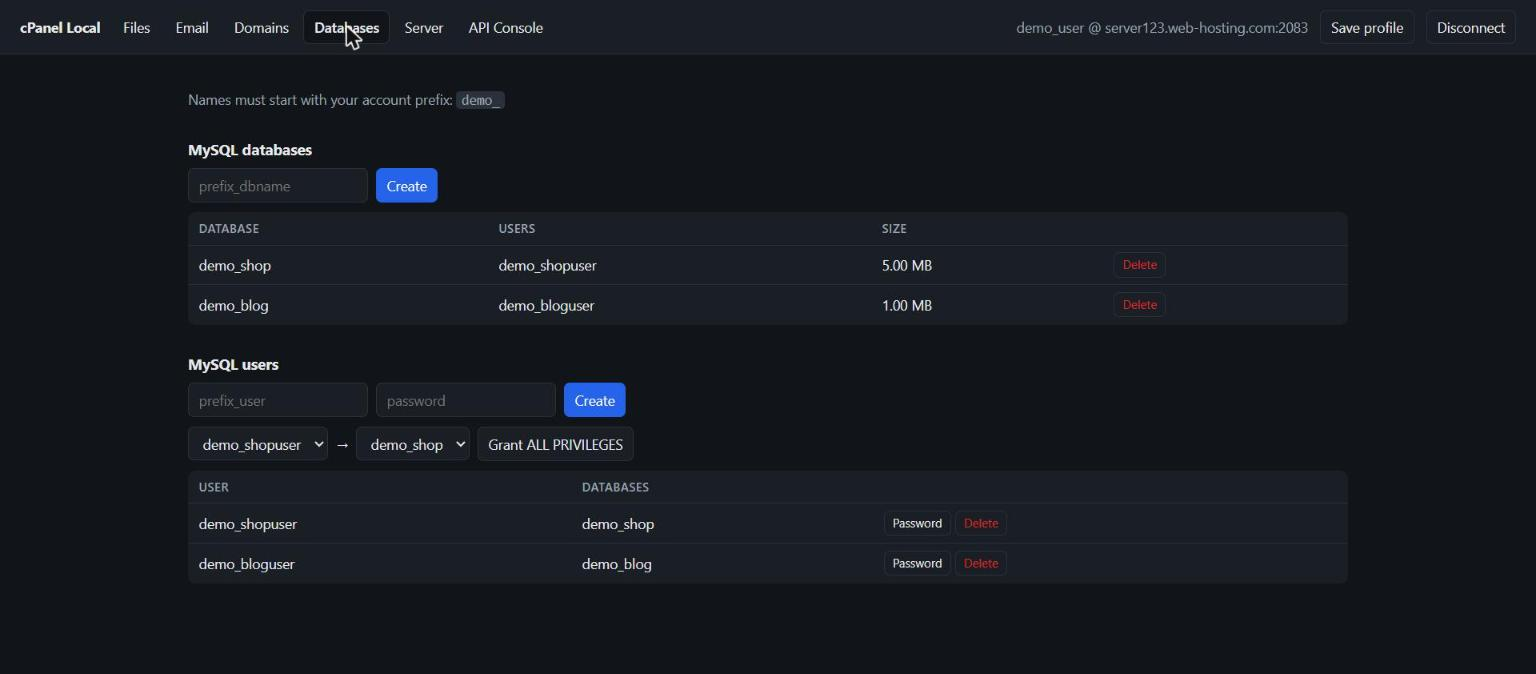
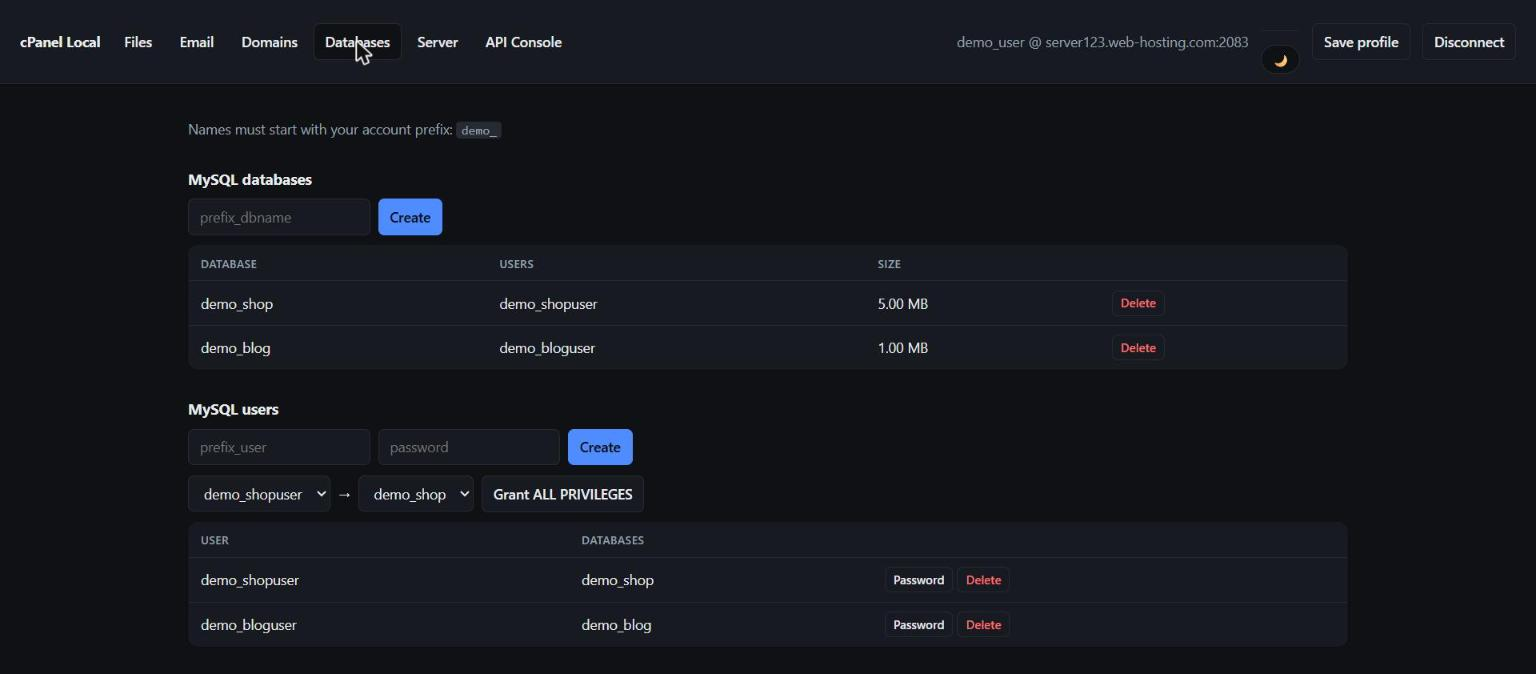
Add selectable appearance themes and refresh screenshots
Adds a Light/Dark/Midnight/System theme picker (dropdown using the
existing <details> disclosure pattern, CSP-safe) plus general UI
polish: card shadows, focus rings, hover states, and smoother
transitions. Screenshots regenerated to reflect the new UI.

diff --git a/public/style.css b/public/style.css
@@ -1,32 +1,76 @@
 :root {
-  --bg: #f6f7f9; --card: #fff; --text: #1d2330; --muted: #6b7280; --line: #e5e7eb;
-  --accent: #2563eb; --danger: #dc2626; --radius: 8px;
+  --radius: 10px;
+  --radius-sm: 6px;
+  /* Light is the default paint before app.js resolves the saved/system preference. */
+  --bg: #f4f6f9; --bg-elevated: #fff; --card: #fff; --text: #1a2030; --muted: #64748b;
+  --line: #e4e7ec; --accent: #2563eb; --accent-hover: #1d4ed8; --accent-contrast: #fff;
+  --danger: #dc2626; --danger-hover: #b91c1c; --ok: #16a34a;
+  --shadow: 0 1px 2px rgba(16, 24, 40, .04), 0 8px 24px rgba(16, 24, 40, .06);
+  --shadow-sm: 0 1px 2px rgba(16, 24, 40, .06);
 }
-@media (prefers-color-scheme: dark) {
-  :root { --bg: #111418; --card: #1a1f26; --text: #e6e8eb; --muted: #9aa3ae; --line: #2a313a; }
+
+html[data-theme="light"] {
+  --bg: #f4f6f9; --bg-elevated: #fff; --card: #fff; --text: #1a2030; --muted: #64748b;
+  --line: #e4e7ec; --accent: #2563eb; --accent-hover: #1d4ed8; --accent-contrast: #fff;
+  --danger: #dc2626; --danger-hover: #b91c1c; --ok: #16a34a;
+  --shadow: 0 1px 2px rgba(16, 24, 40, .04), 0 8px 24px rgba(16, 24, 40, .06);
+  --shadow-sm: 0 1px 2px rgba(16, 24, 40, .06);
 }
+
+html[data-theme="dark"] {
+  --bg: #0f1115; --bg-elevated: #171b21; --card: #171b21; --text: #e8eaed; --muted: #97a1ad;
+  --line: #262b33; --accent: #4f8cff; --accent-hover: #6ea0ff; --accent-contrast: #0b0f14;
+  --danger: #f87171; --danger-hover: #fca5a5; --ok: #4ade80;
+  --shadow: 0 1px 2px rgba(0, 0, 0, .3), 0 12px 28px rgba(0, 0, 0, .35);
+  --shadow-sm: 0 1px 2px rgba(0, 0, 0, .3);
+}
+
+html[data-theme="midnight"] {
+  --bg: #0a0a12; --bg-elevated: #14141f; --card: #14141f; --text: #ecebf9; --muted: #8d89ad;
+  --line: #24233a; --accent: #8b6ff0; --accent-hover: #a287f5; --accent-contrast: #0a0a12;
+  --danger: #ff7a90; --danger-hover: #ff97a8; --ok: #5eead4;
+  --shadow: 0 1px 2px rgba(0, 0, 0, .35), 0 12px 32px rgba(76, 29, 149, .18);
+  --shadow-sm: 0 1px 2px rgba(0, 0, 0, .35);
+}
+
 * { box-sizing: border-box; }
-body { margin: 0; font: 14px/1.45 system-ui, -apple-system, Segoe UI, Roboto, sans-serif; background: var(--bg); color: var(--text); }
+body {
+  margin: 0; font: 14px/1.5 system-ui, -apple-system, Segoe UI, Roboto, sans-serif;
+  background: var(--bg); color: var(--text);
+  transition: background-color .15s ease, color .15s ease;
+}
 .hidden { display: none !important; }
 .muted { color: var(--muted); }
-h1 { margin: 0 0 4px; font-size: 22px; }
+h1 { margin: 0 0 4px; font-size: 22px; letter-spacing: -.01em; }
 h2 { font-size: 15px; margin: 28px 0 8px; }
-code { background: var(--line); padding: 1px 5px; border-radius: 4px; }
+code { background: var(--line); padding: 1px 5px; border-radius: 4px; font-size: .92em; }
+
+a { color: var(--accent); }
 
 input, select, textarea, button, .btn {
-  font: inherit; color: inherit; background: var(--card);
-  border: 1px solid var(--line); border-radius: 6px; padding: 6px 10px;
+  font: inherit; color: inherit; background: var(--bg-elevated);
+  border: 1px solid var(--line); border-radius: var(--radius-sm); padding: 7px 11px;
+  transition: background-color .15s ease, border-color .15s ease, color .15s ease, box-shadow .15s ease;
 }
 textarea { width: 100%; font-family: ui-monospace, Menlo, Consolas, monospace; }
-button, .btn { cursor: pointer; white-space: nowrap; }
+input:hover, select:hover, textarea:hover { border-color: color-mix(in srgb, var(--line) 40%, var(--muted)); }
+input:focus-visible, select:focus-visible, textarea:focus-visible,
+button:focus-visible, .btn:focus-visible {
+  outline: none; border-color: var(--accent); box-shadow: 0 0 0 3px color-mix(in srgb, var(--accent) 25%, transparent);
+}
+button, .btn { cursor: pointer; white-space: nowrap; font-weight: 500; }
 button:hover, .btn:hover { border-color: var(--accent); }
-button.primary { background: var(--accent); border-color: var(--accent); color: #fff; }
+button.primary { background: var(--accent); border-color: var(--accent); color: var(--accent-contrast); }
+button.primary:hover { background: var(--accent-hover); border-color: var(--accent-hover); }
 button.danger { color: var(--danger); }
-button.danger:hover { border-color: var(--danger); }
+button.danger:hover { border-color: var(--danger); background: color-mix(in srgb, var(--danger) 10%, transparent); }
 button:disabled { opacity: .6; cursor: wait; }
 
-.center { min-height: 100vh; display: grid; place-items: center; padding: 20px; }
-.card { background: var(--card); border: 1px solid var(--line); border-radius: var(--radius); padding: 24px; }
+.center { min-height: 100vh; display: grid; place-items: center; padding: 20px; position: relative; }
+.card {
+  background: var(--card); border: 1px solid var(--line); border-radius: var(--radius);
+  padding: 24px; box-shadow: var(--shadow);
+}
 .narrow { width: 100%; max-width: 420px; }
 form label { display: block; margin: 14px 0; font-weight: 500; }
 form label input:not([type=checkbox]) { display: block; width: 100%; margin-top: 4px; }
@@ -40,10 +84,42 @@ summary { cursor: pointer; color: var(--muted); }
 ul.plain { list-style: none; padding: 0; margin: 10px 0 0; }
 ul.plain li { display: flex; gap: 6px; align-items: center; padding: 6px 0; border-bottom: 1px solid var(--line); }
 
+/* -------------------------------------------------- appearance / theme switcher */
+.appearance { position: absolute; top: 20px; right: 20px; }
+
+.theme-dropdown { position: relative; }
+.theme-dropdown > summary {
+  display: flex; align-items: center; gap: 6px; list-style: none; cursor: pointer; user-select: none;
+  background: var(--bg); border: 1px solid var(--line); border-radius: 999px; padding: 6px 12px;
+  font-size: 12px; font-weight: 500; color: var(--text);
+}
+.theme-dropdown > summary::-webkit-details-marker { display: none; }
+.theme-dropdown > summary:hover { border-color: var(--accent); }
+.theme-dropdown > summary:focus-visible { outline: none; box-shadow: 0 0 0 3px color-mix(in srgb, var(--accent) 35%, transparent); }
+.theme-dropdown .ico { font-size: 13px; line-height: 1; }
+.theme-dropdown .caret { font-size: 9px; color: var(--muted); transition: transform .15s ease; }
+.theme-dropdown[open] > summary .caret { transform: rotate(180deg); }
+
+.theme-menu {
+  position: absolute; top: calc(100% + 6px); right: 0; min-width: 150px; z-index: 20;
+  background: var(--card); border: 1px solid var(--line); border-radius: var(--radius-sm);
+  box-shadow: var(--shadow); padding: 4px; display: flex; flex-direction: column; gap: 1px;
+}
+.theme-menu .theme-opt {
+  display: flex; align-items: center; gap: 8px; width: 100%; text-align: left;
+  border: none; background: none; border-radius: 6px; padding: 7px 9px; font-size: 13px; color: var(--text);
+}
+.theme-menu .theme-opt:hover { background: var(--bg); border-color: transparent; }
+.theme-menu .theme-opt[aria-pressed="true"] { background: var(--accent); color: var(--accent-contrast); }
+.theme-menu .theme-opt .ico { width: 16px; text-align: center; }
+
+.theme-dropdown--compact > summary { padding: 7px 10px; }
+.theme-dropdown--compact .lbl, .theme-dropdown--compact .caret { display: none; }
+
 .topbar {
   display: flex; gap: 12px; align-items: center; flex-wrap: wrap;
-  padding: 10px 20px; background: var(--card); border-bottom: 1px solid var(--line);
-  position: sticky; top: 0; z-index: 5;
+  padding: 10px 20px; background: var(--bg-elevated); border-bottom: 1px solid var(--line);
+  position: sticky; top: 0; z-index: 5; box-shadow: var(--shadow-sm);
 }
 #tabs { display: flex; gap: 4px; flex: 1; }
 #tabs button { border-color: transparent; background: none; }
@@ -57,31 +133,32 @@ main { padding: 20px; max-width: 1200px; margin: 0 auto; }
 .toolbar { display: flex; gap: 8px; align-items: center; flex-wrap: wrap; margin-bottom: 10px; }
 .grow { flex: 1; min-width: 160px; }
 
-table.list { width: 100%; border-collapse: collapse; background: var(--card); border: 1px solid var(--line); border-radius: var(--radius); overflow: hidden; }
-table.list th, table.list td { text-align: left; padding: 7px 10px; border-bottom: 1px solid var(--line); vertical-align: middle; }
-table.list th { font-weight: 600; color: var(--muted); font-size: 12px; text-transform: uppercase; letter-spacing: .03em; }
+table.list { width: 100%; border-collapse: collapse; background: var(--card); border: 1px solid var(--line); border-radius: var(--radius); overflow: hidden; box-shadow: var(--shadow-sm); }
+table.list th, table.list td { text-align: left; padding: 9px 12px; border-bottom: 1px solid var(--line); vertical-align: middle; }
+table.list th { font-weight: 600; color: var(--muted); font-size: 11px; text-transform: uppercase; letter-spacing: .04em; }
 table.list tr:last-child td { border-bottom: 0; }
+table.list tbody tr:hover { background: color-mix(in srgb, var(--accent) 5%, transparent); }
 table.list a { color: inherit; text-decoration: none; }
 table.list a:hover { color: var(--accent); }
 td.actions { text-align: right; white-space: nowrap; }
 td.actions button { padding: 3px 8px; font-size: 12px; margin-left: 4px; }
 
-pre#consoleOut { background: var(--card); border: 1px solid var(--line); border-radius: var(--radius); padding: 12px; overflow: auto; max-height: 60vh; }
+pre#consoleOut { background: var(--card); border: 1px solid var(--line); border-radius: var(--radius); padding: 12px; overflow: auto; max-height: 60vh; box-shadow: var(--shadow-sm); }
 
 .server-split { display: flex; gap: 16px; align-items: flex-start; flex-wrap: wrap; }
 .server-files { flex: 1 1 380px; min-width: 320px; }
 .server-terminal { flex: 1 1 420px; min-width: 360px; }
 #terminal { height: 560px; background: #000; border-radius: var(--radius); overflow: hidden; padding: 6px; }
 
-dialog#editor { width: min(1000px, 95vw); height: 85vh; padding: 0; border: 1px solid var(--line); border-radius: var(--radius); background: var(--card); color: var(--text); }
+dialog#editor { width: min(1000px, 95vw); height: 85vh; padding: 0; border: 1px solid var(--line); border-radius: var(--radius); background: var(--card); color: var(--text); box-shadow: var(--shadow); }
 dialog::backdrop { background: rgba(0,0,0,.45); }
 .editor-wrap { display: flex; flex-direction: column; height: 100%; padding: 12px; }
 #editorText { flex: 1; resize: none; font-size: 13px; tab-size: 4; }
 
 #toast {
   position: fixed; bottom: 20px; left: 50%; transform: translateX(-50%) translateY(20px);
-  background: #111827; color: #fff; padding: 10px 16px; border-radius: 6px; white-space: pre-line;
-  opacity: 0; pointer-events: none; transition: .2s; max-width: 90vw; z-index: 99;
+  background: var(--text); color: var(--bg); padding: 10px 16px; border-radius: var(--radius-sm); white-space: pre-line;
+  opacity: 0; pointer-events: none; transition: .2s; max-width: 90vw; z-index: 99; box-shadow: var(--shadow);
 }
 #toast.show { opacity: 1; transform: translateX(-50%); }
-#toast.err { background: var(--danger); }
+#toast.err { background: var(--danger); color: #fff; }

diff --git a/public/index.html b/public/index.html
@@ -11,6 +11,21 @@
 <body>
   <!-- ============ CONNECT ============ -->
   <section id="connectView" class="center hidden">
+    <div class="appearance">
+      <details class="theme-dropdown">
+        <summary>
+          <span class="ico" data-theme-icon>&#128421;</span>
+          <span class="lbl" data-theme-label>Auto</span>
+          <span class="caret">&#9662;</span>
+        </summary>
+        <div class="theme-menu">
+          <button type="button" class="theme-opt" data-theme-opt="system"><span class="ico">&#128421;</span>System</button>
+          <button type="button" class="theme-opt" data-theme-opt="light"><span class="ico">&#9728;</span>Light</button>
+          <button type="button" class="theme-opt" data-theme-opt="dark"><span class="ico">&#127769;</span>Dark</button>
+          <button type="button" class="theme-opt" data-theme-opt="midnight"><span class="ico">&#10022;</span>Midnight</button>
+        </div>
+      </details>
+    </div>
     <div class="card narrow">
       <nav id="connectTabs">
         <button type="button" data-ctab="cpanel" class="active">cPanel</button>
@@ -63,6 +78,17 @@
         <button data-tab="console">API Console</button>
       </nav>
       <span id="connInfo" class="muted"></span>
+      <details class="theme-dropdown theme-dropdown--compact">
+        <summary title="Appearance">
+          <span class="ico" data-theme-icon>&#128421;</span>
+        </summary>
+        <div class="theme-menu">
+          <button type="button" class="theme-opt" data-theme-opt="system"><span class="ico">&#128421;</span>System</button>
+          <button type="button" class="theme-opt" data-theme-opt="light"><span class="ico">&#9728;</span>Light</button>
+          <button type="button" class="theme-opt" data-theme-opt="dark"><span class="ico">&#127769;</span>Dark</button>
+          <button type="button" class="theme-opt" data-theme-opt="midnight"><span class="ico">&#10022;</span>Midnight</button>
+        </div>
+      </details>
       <button id="saveProfileBtn" title="Save this connection to the encrypted vault">Save profile</button>
       <button id="logoutBtn">Disconnect</button>
     </header>

diff --git a/public/app.js b/public/app.js
@@ -5,6 +5,50 @@ const CSRF = document.querySelector('meta[name="csrf"]').content;
 const $ = (s) => document.querySelector(s);
 const state = { home: '', cwd: '', user: '', domains: [], prefix: '', ssh: null };
 
+// ------------------------------------------------------------ appearance / theme
+const THEME_KEY = 'cpanelLocal.theme';
+const THEMES = ['system', 'light', 'dark', 'midnight'];
+const darkMedia = window.matchMedia('(prefers-color-scheme: dark)');
+
+function getThemePref() {
+  const saved = localStorage.getItem(THEME_KEY);
+  return THEMES.includes(saved) ? saved : 'system';
+}
+function resolveTheme(pref) {
+  return pref === 'system' ? (darkMedia.matches ? 'dark' : 'light') : pref;
+}
+const THEME_META = {
+  system: { icon: '\u{1F5A5}', label: 'Auto' },
+  light: { icon: '☀', label: 'Light' },
+  dark: { icon: '\u{1F319}', label: 'Dark' },
+  midnight: { icon: '✦', label: 'Midnight' },
+};
+function applyTheme(pref) {
+  if (!THEMES.includes(pref)) pref = 'system';
+  localStorage.setItem(THEME_KEY, pref);
+  document.documentElement.dataset.theme = resolveTheme(pref);
+  document.querySelectorAll('.theme-opt').forEach((b) => {
+    b.setAttribute('aria-pressed', String(b.dataset.themeOpt === pref));
+  });
+  const meta = THEME_META[pref];
+  document.querySelectorAll('[data-theme-icon]').forEach((el) => { el.textContent = meta.icon; });
+  document.querySelectorAll('[data-theme-label]').forEach((el) => { el.textContent = meta.label; });
+}
+applyTheme(getThemePref());
+darkMedia.addEventListener('change', () => { if (getThemePref() === 'system') applyTheme('system'); });
+document.addEventListener('click', (e) => {
+  const btn = e.target.closest('.theme-opt');
+  if (btn) {
+    applyTheme(btn.dataset.themeOpt);
+    const d = btn.closest('details.theme-dropdown');
+    if (d) d.open = false;
+    return;
+  }
+  document.querySelectorAll('details.theme-dropdown[open]').forEach((d) => {
+    if (!d.contains(e.target)) d.open = false;
+  });
+});
+
 // ------------------------------------------------------------ utils
 async function post(route, body = {}) {
   const r = await fetch('/api/' + route, {
